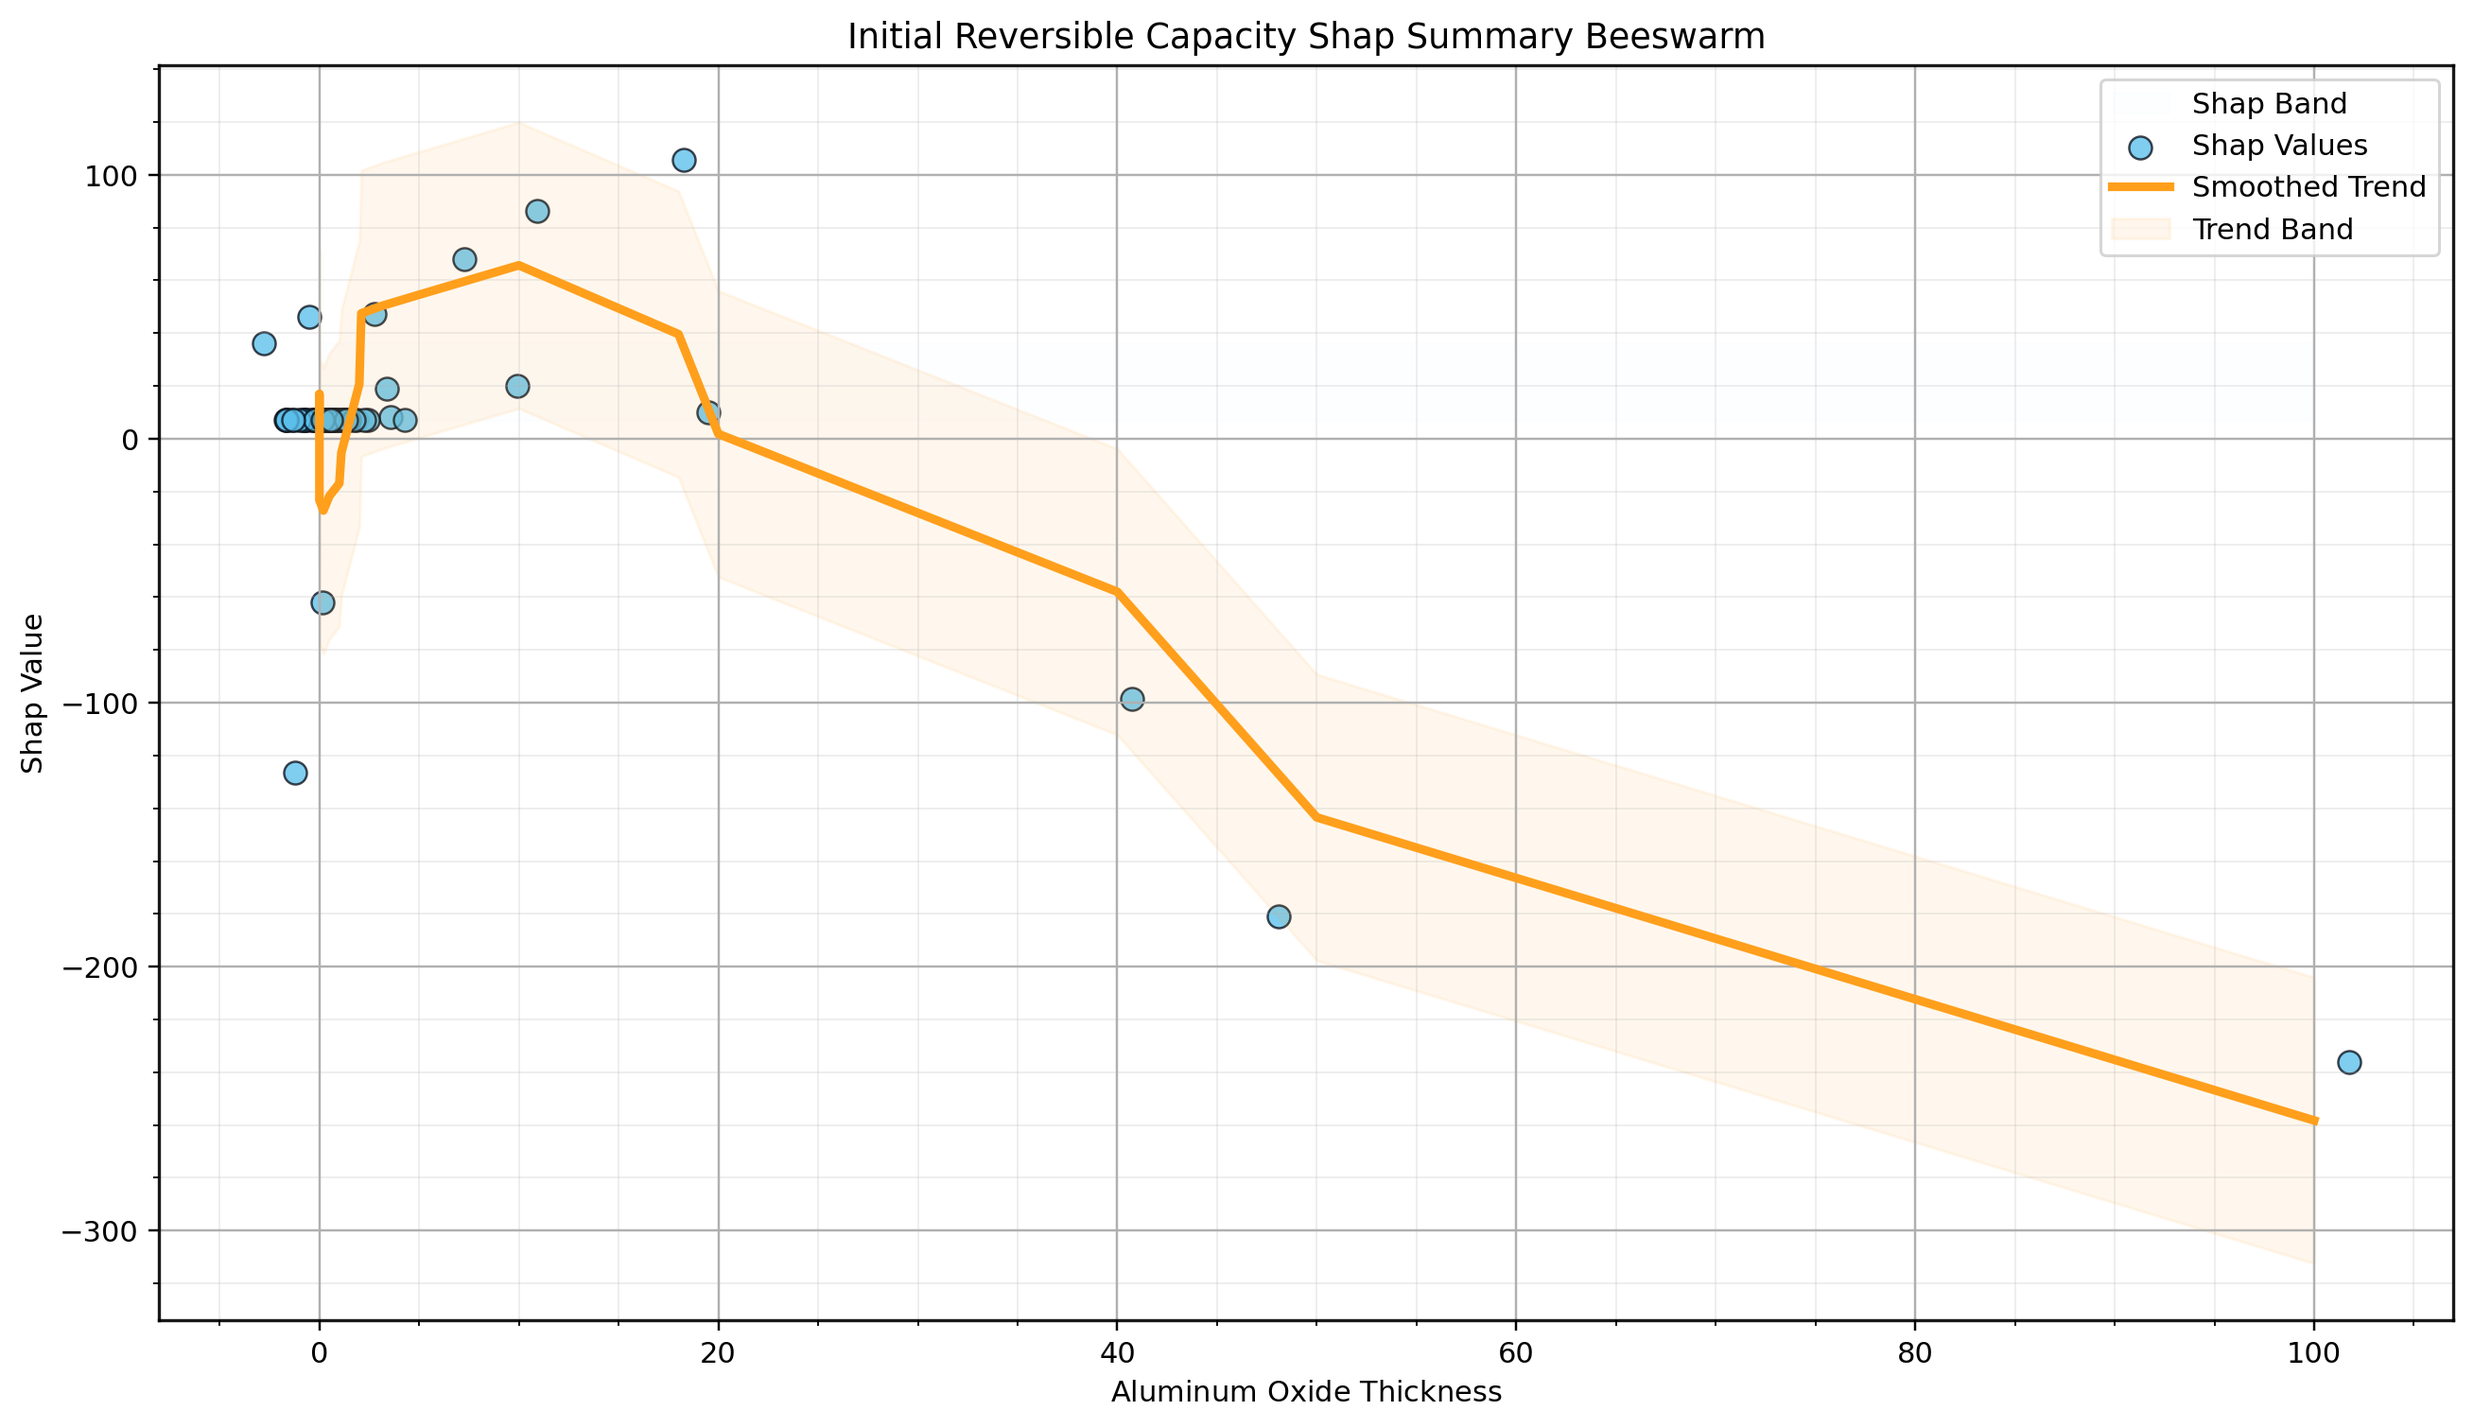
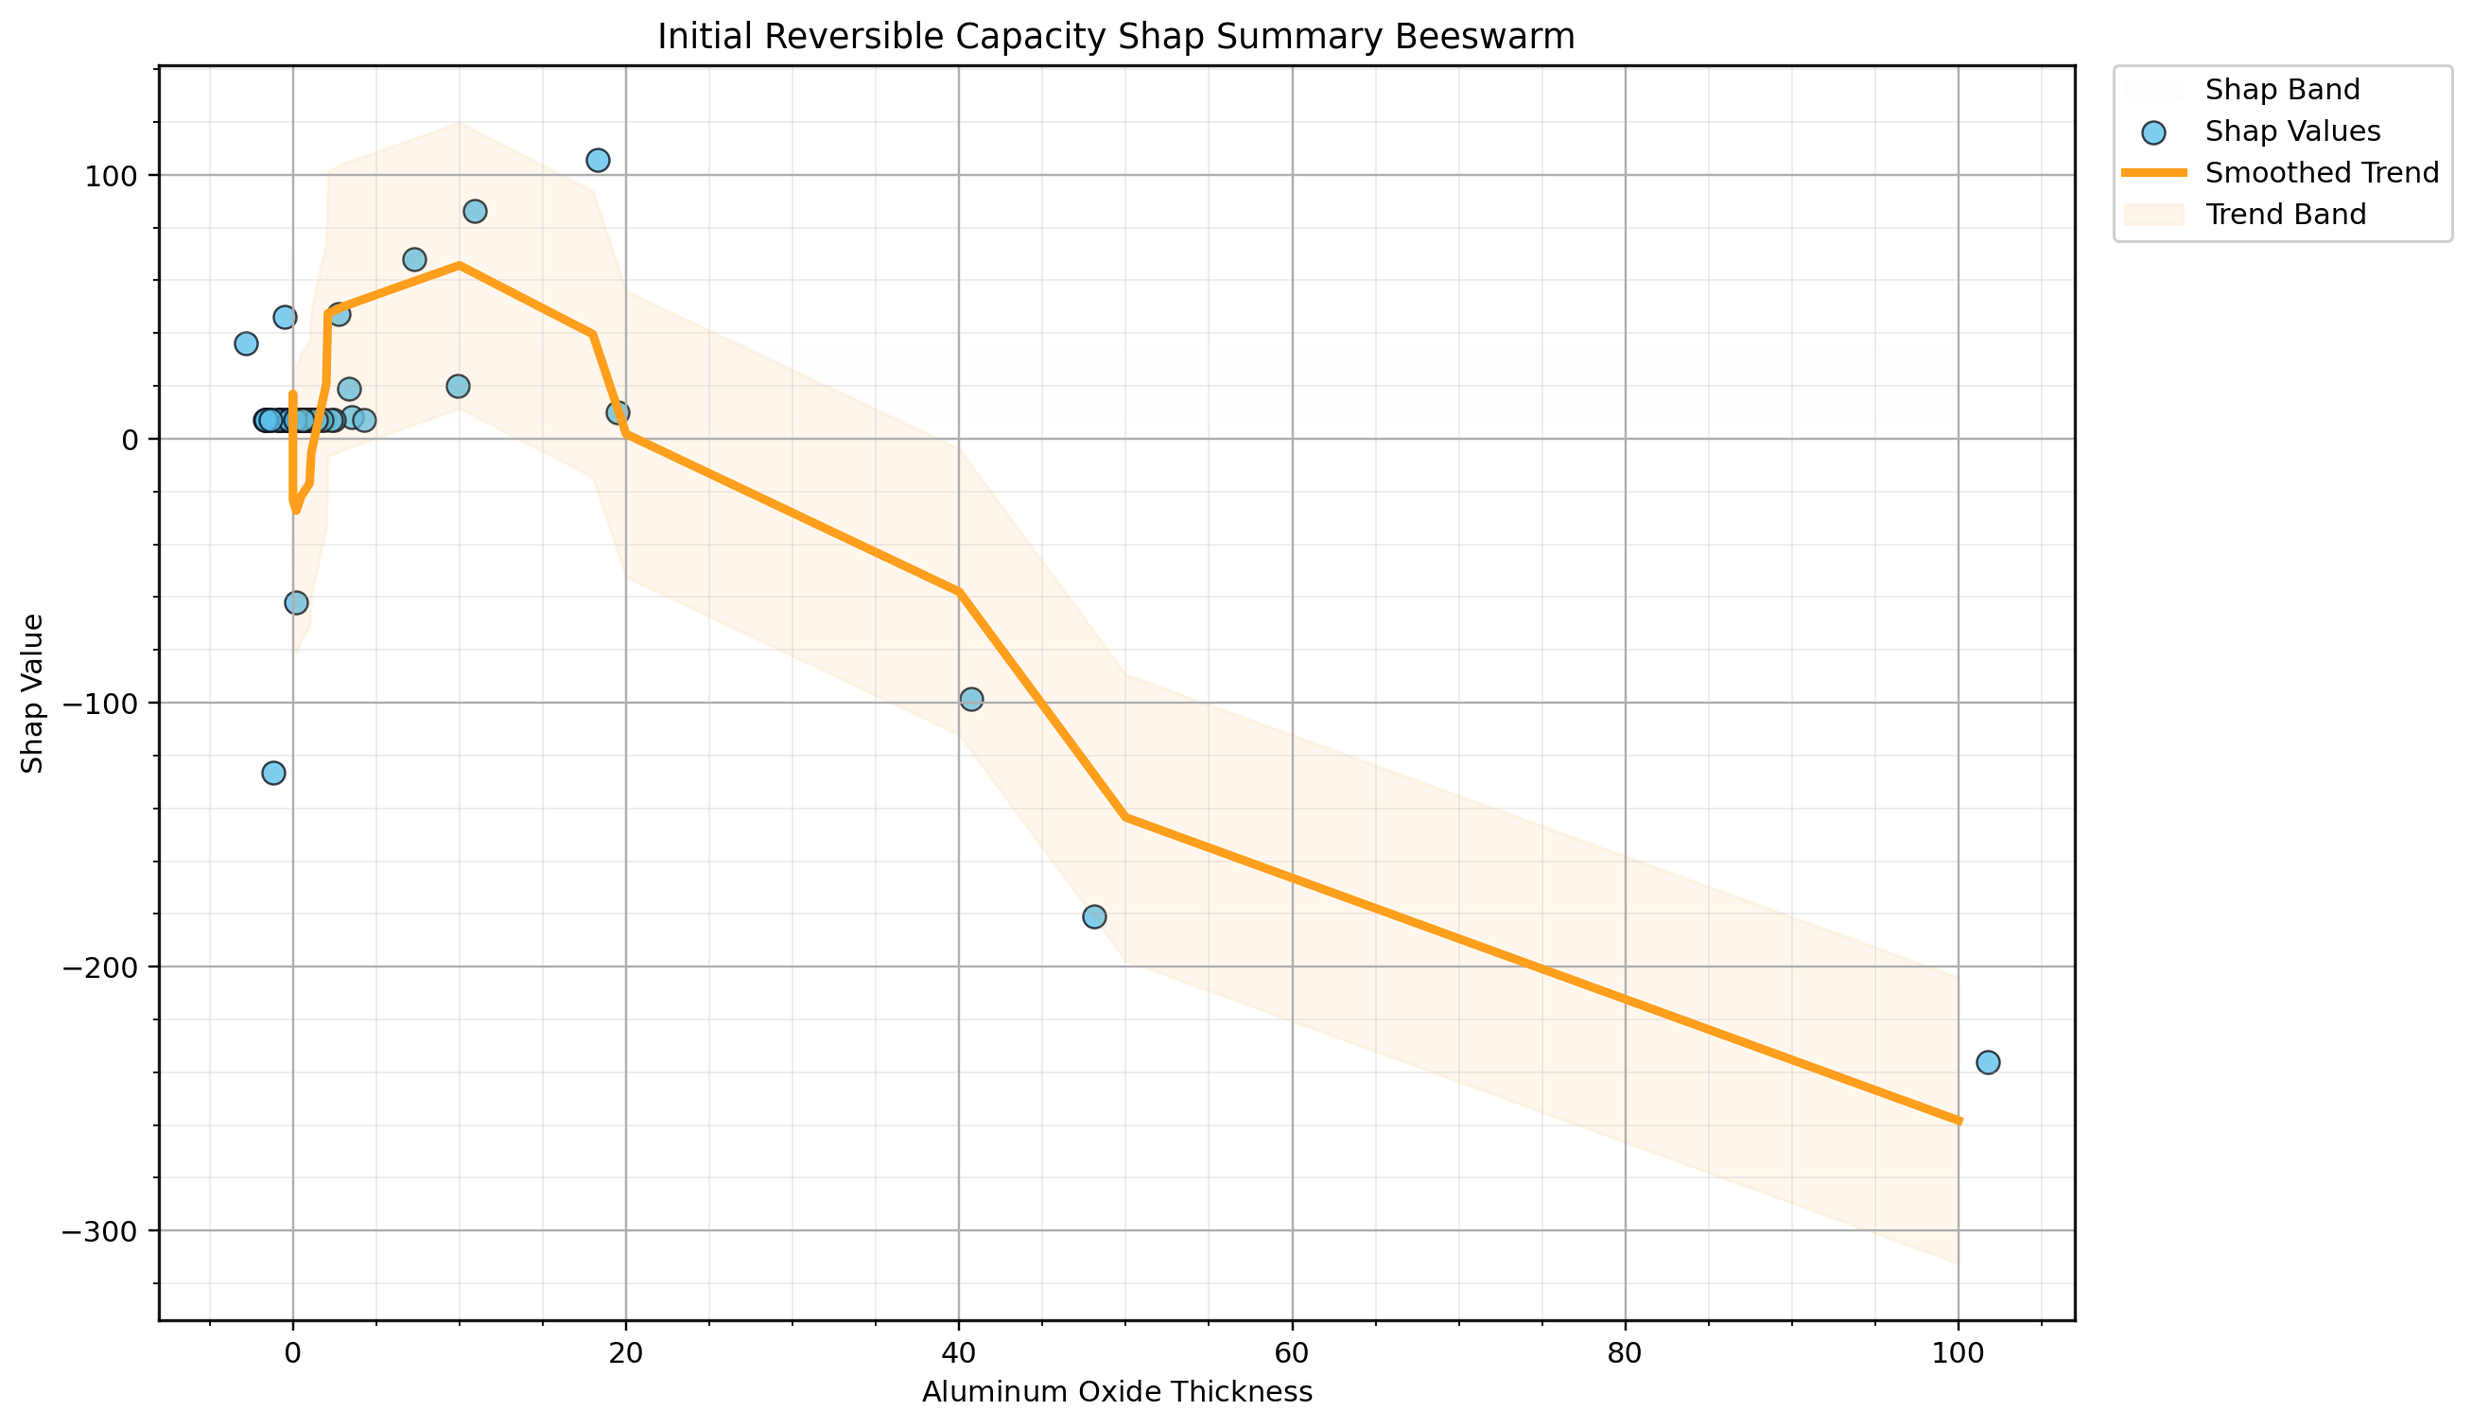
Remove notebooks and align plot style docs
Delete the notebooks folder from the codebase and refresh exported artifacts. Update EDA plot documentation to match linear trend behavior and move SHAP beeswarm legends outside the axes.

Made-with: Cursor

diff --git a/src/explainability.py b/src/explainability.py
@@ -128,7 +128,7 @@ def shap_explain_1d_single_output(
         ax.set_title(f"{t_title} Shap Summary Beeswarm")
         ax.set_xlabel(labels.x_label)
         ax.set_ylabel("Shap Value")
-        ax.legend(loc="upper right")
+        legend_outside_top_right(ax, ncol=1)
         polish_axes(ax)
         saved.append(savefig(fig, out_plots, f"shap_beeswarm__{target}", dpi=cfg.figure_dpi, fmt=cfg.figure_format))
     except Exception:

diff --git a/artifacts/Reports/Summary Report.md b/artifacts/Reports/Summary Report.md
@@ -54,19 +54,19 @@ This contrasts the large `0.0 nm` cluster against the pooled non-zero thicknesse
 | --- | --- | --- | --- | --- | --- | --- |
 | Extra Trees | 36.502096949891055 | 56.463637279027225 | 0.3115079787479606 | 0.2974571211713884 | 43.96871790144956 | 1 |
 | Decision Tree | 36.50209694989107 | 56.463637279027225 | 0.3115079787479606 | 0.2974571211713884 | 43.96871790144958 | 2 |
-| Gradient Boosting | 36.62474727363456 | 56.46469020353801 | 0.3114797871300989 | 0.2974283542143867 | 44.17276238103285 | 3 |
-| Random Forest | 40.12439201168747 | 57.22694292073815 | 0.2767615784138001 | 0.2620016106263266 | 52.487483531127566 | 4 |
-| Bagging Regressor | 40.26839203969183 | 57.30588946629285 | 0.2697306555574985 | 0.2548271995484679 | 52.08331988037873 | 5 |
-| Adaptive Boosting | 41.376324788358616 | 58.61552086383991 | 0.2413618016134405 | 0.2258793894014699 | 53.47012151600998 | 6 |
-| Polynomial Regression Degree 3 | 45.93310218664039 | 61.46651043144696 | 0.1253442357404909 | 0.0695151444047776 | 75.84562028343396 | 7 |
-| Polynomial Ridge Degree 3 | 45.83368966291799 | 61.73859126927061 | 0.1170064334914919 | 0.0606451420122254 | 77.71204418012663 | 8 |
-| Polynomial Regression Degree 2 | 47.58581699448067 | 62.82814994632612 | 0.0816772964980667 | 0.0434138505188195 | 82.03919656927027 | 9 |
-| Polynomial Ridge Degree 2 | 47.36162114757483 | 62.84394243278399 | 0.0814027092593474 | 0.0431278221451535 | 81.38673994146862 | 10 |
-| Linear Regression | 47.88620327402283 | 63.48626724091056 | 0.063332008500258 | 0.0442163352043449 | 84.11703649434362 | 11 |
-| Lasso Regression | 47.8862242804854 | 63.48626725895862 | 0.0633320065241967 | 0.0442163331879558 | 84.11720260021775 | 12 |
-| Elastic Net Regression | 47.88695737276996 | 63.4862680821951 | 0.0633319896952182 | 0.0442163160155288 | 84.12050988761703 | 13 |
-| Ridge Regression | 47.91481760345432 | 63.48742364228925 | 0.0633085868994814 | 0.0441924356117157 | 84.2475009956124 | 14 |
-| K Nearest Neighbors Five | 45.39443137254902 | 66.13774847857172 | 0.0435126642333794 | 0.0239925145238565 | 50.12863096442569 | 15 |
+| Gaussian Process Regression | 36.50211144577678 | 56.46363727973788 | 0.3115079787302062 | 0.2974571211532716 | 43.96879424143795 | 3 |
+| Gradient Boosting | 36.62474727363456 | 56.46469020353801 | 0.3114797871300989 | 0.2974283542143867 | 44.17276238103285 | 4 |
+| Extreme Gradient Boosting | 36.68221718881645 | 56.47065577776298 | 0.311307091678354 | 0.2972521343656674 | 44.06025933190316 | 5 |
+| Categorical Boosting | 37.077481746004295 | 56.4823468839188 | 0.3109246067679114 | 0.296861843640726 | 45.0521131016635 | 6 |
+| Random Forest | 40.12439201168747 | 57.22694292073815 | 0.2767615784138001 | 0.2620016106263266 | 52.487483531127566 | 7 |
+| Bagging Regressor | 40.26839203969183 | 57.30588946629285 | 0.2697306555574985 | 0.2548271995484679 | 52.08331988037873 | 8 |
+| Adaptive Boosting | 41.376324788358616 | 58.61552086383991 | 0.2413618016134405 | 0.2258793894014699 | 53.47012151600998 | 9 |
+| Polynomial Regression Degree 3 | 45.93310218664039 | 61.46651043144696 | 0.1253442357404909 | 0.0695151444047776 | 75.84562028343396 | 10 |
+| Polynomial Ridge Degree 3 | 45.83368966291799 | 61.73859126927061 | 0.1170064334914919 | 0.0606451420122254 | 77.71204418012663 | 11 |
+| Polynomial Regression Degree 2 | 47.58581699448067 | 62.82814994632612 | 0.0816772964980667 | 0.0434138505188195 | 82.03919656927027 | 12 |
+| Polynomial Ridge Degree 2 | 47.36162114757483 | 62.84394243278399 | 0.0814027092593474 | 0.0431278221451535 | 81.38673994146862 | 13 |
+| Linear Regression | 47.88620327402283 | 63.48626724091056 | 0.063332008500258 | 0.0442163352043449 | 84.11703649434362 | 14 |
+| Lasso Regression | 47.8862242804854 | 63.48626725895862 | 0.0633320065241967 | 0.0442163331879558 | 84.11720260021775 | 15 |
 
 - **Best overall model (by overall mean RMSE)**: `Extra Trees`
 
@@ -74,7 +74,7 @@ This contrasts the large `0.0 nm` cluster against the pooled non-zero thicknesse
 | target | best_model_by_rmse | RMSE | R2 |
 | --- | --- | --- | --- |
 | Rct_initial_ohm | Decision Tree | 117.90478920480368 | 0.2429688145716846 |
-| ICE_percent | Decision Tree | 12.617473273531386 | 0.3179943591466978 |
+| ICE_percent | Gaussian Process Regression | 12.617473273515824 | 0.3179943591483801 |
 | Initial Reversible Capacity_mAh_g at 0.1C | Decision Tree | 81.96072216747183 | 0.3041163615888186 |
 | Highest Capacity Retention_percent | Decision Tree | 13.37156447030198 | 0.3809523796846417 |
 

diff --git a/outputs/reports/summary_report.md b/outputs/reports/summary_report.md
@@ -54,19 +54,19 @@ This contrasts the large `0.0 nm` cluster against the pooled non-zero thicknesse
 | --- | --- | --- | --- | --- | --- | --- |
 | Extra Trees | 36.502096949891055 | 56.463637279027225 | 0.3115079787479606 | 0.2974571211713884 | 43.96871790144956 | 1 |
 | Decision Tree | 36.50209694989107 | 56.463637279027225 | 0.3115079787479606 | 0.2974571211713884 | 43.96871790144958 | 2 |
-| Gradient Boosting | 36.62474727363456 | 56.46469020353801 | 0.3114797871300989 | 0.2974283542143867 | 44.17276238103285 | 3 |
-| Random Forest | 40.12439201168747 | 57.22694292073815 | 0.2767615784138001 | 0.2620016106263266 | 52.487483531127566 | 4 |
-| Bagging Regressor | 40.26839203969183 | 57.30588946629285 | 0.2697306555574985 | 0.2548271995484679 | 52.08331988037873 | 5 |
-| Adaptive Boosting | 41.376324788358616 | 58.61552086383991 | 0.2413618016134405 | 0.2258793894014699 | 53.47012151600998 | 6 |
-| Polynomial Regression Degree 3 | 45.93310218664039 | 61.46651043144696 | 0.1253442357404909 | 0.0695151444047776 | 75.84562028343396 | 7 |
-| Polynomial Ridge Degree 3 | 45.83368966291799 | 61.73859126927061 | 0.1170064334914919 | 0.0606451420122254 | 77.71204418012663 | 8 |
-| Polynomial Regression Degree 2 | 47.58581699448067 | 62.82814994632612 | 0.0816772964980667 | 0.0434138505188195 | 82.03919656927027 | 9 |
-| Polynomial Ridge Degree 2 | 47.36162114757483 | 62.84394243278399 | 0.0814027092593474 | 0.0431278221451535 | 81.38673994146862 | 10 |
-| Linear Regression | 47.88620327402283 | 63.48626724091056 | 0.063332008500258 | 0.0442163352043449 | 84.11703649434362 | 11 |
-| Lasso Regression | 47.8862242804854 | 63.48626725895862 | 0.0633320065241967 | 0.0442163331879558 | 84.11720260021775 | 12 |
-| Elastic Net Regression | 47.88695737276996 | 63.4862680821951 | 0.0633319896952182 | 0.0442163160155288 | 84.12050988761703 | 13 |
-| Ridge Regression | 47.91481760345432 | 63.48742364228925 | 0.0633085868994814 | 0.0441924356117157 | 84.2475009956124 | 14 |
-| K Nearest Neighbors Five | 45.39443137254902 | 66.13774847857172 | 0.0435126642333794 | 0.0239925145238565 | 50.12863096442569 | 15 |
+| Gaussian Process Regression | 36.50211144577678 | 56.46363727973788 | 0.3115079787302062 | 0.2974571211532716 | 43.96879424143795 | 3 |
+| Gradient Boosting | 36.62474727363456 | 56.46469020353801 | 0.3114797871300989 | 0.2974283542143867 | 44.17276238103285 | 4 |
+| Extreme Gradient Boosting | 36.68221718881645 | 56.47065577776298 | 0.311307091678354 | 0.2972521343656674 | 44.06025933190316 | 5 |
+| Categorical Boosting | 37.077481746004295 | 56.4823468839188 | 0.3109246067679114 | 0.296861843640726 | 45.0521131016635 | 6 |
+| Random Forest | 40.12439201168747 | 57.22694292073815 | 0.2767615784138001 | 0.2620016106263266 | 52.487483531127566 | 7 |
+| Bagging Regressor | 40.26839203969183 | 57.30588946629285 | 0.2697306555574985 | 0.2548271995484679 | 52.08331988037873 | 8 |
+| Adaptive Boosting | 41.376324788358616 | 58.61552086383991 | 0.2413618016134405 | 0.2258793894014699 | 53.47012151600998 | 9 |
+| Polynomial Regression Degree 3 | 45.93310218664039 | 61.46651043144696 | 0.1253442357404909 | 0.0695151444047776 | 75.84562028343396 | 10 |
+| Polynomial Ridge Degree 3 | 45.83368966291799 | 61.73859126927061 | 0.1170064334914919 | 0.0606451420122254 | 77.71204418012663 | 11 |
+| Polynomial Regression Degree 2 | 47.58581699448067 | 62.82814994632612 | 0.0816772964980667 | 0.0434138505188195 | 82.03919656927027 | 12 |
+| Polynomial Ridge Degree 2 | 47.36162114757483 | 62.84394243278399 | 0.0814027092593474 | 0.0431278221451535 | 81.38673994146862 | 13 |
+| Linear Regression | 47.88620327402283 | 63.48626724091056 | 0.063332008500258 | 0.0442163352043449 | 84.11703649434362 | 14 |
+| Lasso Regression | 47.8862242804854 | 63.48626725895862 | 0.0633320065241967 | 0.0442163331879558 | 84.11720260021775 | 15 |
 
 - **Best overall model (by overall mean RMSE)**: `Extra Trees`
 
@@ -74,7 +74,7 @@ This contrasts the large `0.0 nm` cluster against the pooled non-zero thicknesse
 | target | best_model_by_rmse | RMSE | R2 |
 | --- | --- | --- | --- |
 | Rct_initial_ohm | Decision Tree | 117.90478920480368 | 0.2429688145716846 |
-| ICE_percent | Decision Tree | 12.617473273531386 | 0.3179943591466978 |
+| ICE_percent | Gaussian Process Regression | 12.617473273515824 | 0.3179943591483801 |
 | Initial Reversible Capacity_mAh_g at 0.1C | Decision Tree | 81.96072216747183 | 0.3041163615888186 |
 | Highest Capacity Retention_percent | Decision Tree | 13.37156447030198 | 0.3809523796846417 |
 

diff --git a/outputs/eda/plots/README.md b/outputs/eda/plots/README.md
@@ -4,6 +4,6 @@ This plots directory is the visual record of the one dimensional thickness respo
 
 The **Univariate** subdirectory contains distribution focused plots for the thickness feature and each target. These include histograms with smooth density overlays, empirical cumulative distribution curves, and robust shape summaries such as box and violin views. The purpose is to understand skewness, tail weight, and whether a small number of extreme observations dominate apparent trends.
 
-The **Bivariate** subdirectory contains thickness response plots for each target. These plots include observed scatter with jittered thickness, smooth trends, and polynomial trend families that help assess whether the data supports linear, weakly nonlinear, or strongly nonlinear behavior. Where appropriate, area fills are used as visual strips to guide the eye without cluttering the central signal.
+The **Bivariate** subdirectory contains thickness response plots for each target. These plots include observed scatter with jittered thickness and a single linear trend line as a conservative summary of \(\hat{y}(x)\). Where appropriate, area fills are used as visual strips to guide the eye without cluttering the central signal.
 
 The **Grouped** and **Relationships** subdirectories summarize cohort behavior and multivariate association diagnostics. Grouped plots treat each discrete thickness value as a cohort and display mean response with uncertainty bands. Relationship plots include correlation heatmaps and optional pair plots for numeric variables, which are diagnostics to complement the one dimensional response narrative rather than replacements for it.

diff --git a/outputs/eda/plots/Bivariate/README.md b/outputs/eda/plots/Bivariate/README.md
@@ -4,6 +4,6 @@ Bivariate views emphasize thickness response behavior for each target using tren
 
 For distribution style plots, focus on whether the observed values cluster tightly at a small set of levels or whether the variable behaves continuously. For thickness, the concentration at the zero level is expected to be dominant, so plots should be interpreted in a mixed discrete and continuous sense. The goal is not to force a continuous narrative but to represent what the experiment actually provides.
 
-For response style plots, interpret trends as hypotheses about \(\hat{y}(x)\) rather than as proofs of causality. Smooth curves are included to reveal potential monotonic or threshold like patterns, while polynomial trends provide a controlled way to test curvature up to cubic behavior. In a one dimensional design, curvature is the main model choice dimension.
+For response style plots, interpret trends as hypotheses about \(\hat{y}(x)\) rather than as proofs of causality. The bivariate suite uses a single linear trend as a conservative summary, plus shaded bands that visualize dispersion across thickness cohorts. In a one dimensional design, these uncertainty aware overlays are often more scientifically honest than stacking multiple trend families.
 
 All plot text follows a strict formatting rule to avoid parentheses and to keep labels in Title Case. Mathematical terms use LaTeX style mathtext when it improves scientific clarity, such as \(R_{\mathrm{ct}}\) and \(Q_{\mathrm{rev}}\). This keeps the visuals both professional and mathematically correct without requiring a full LaTeX installation.
